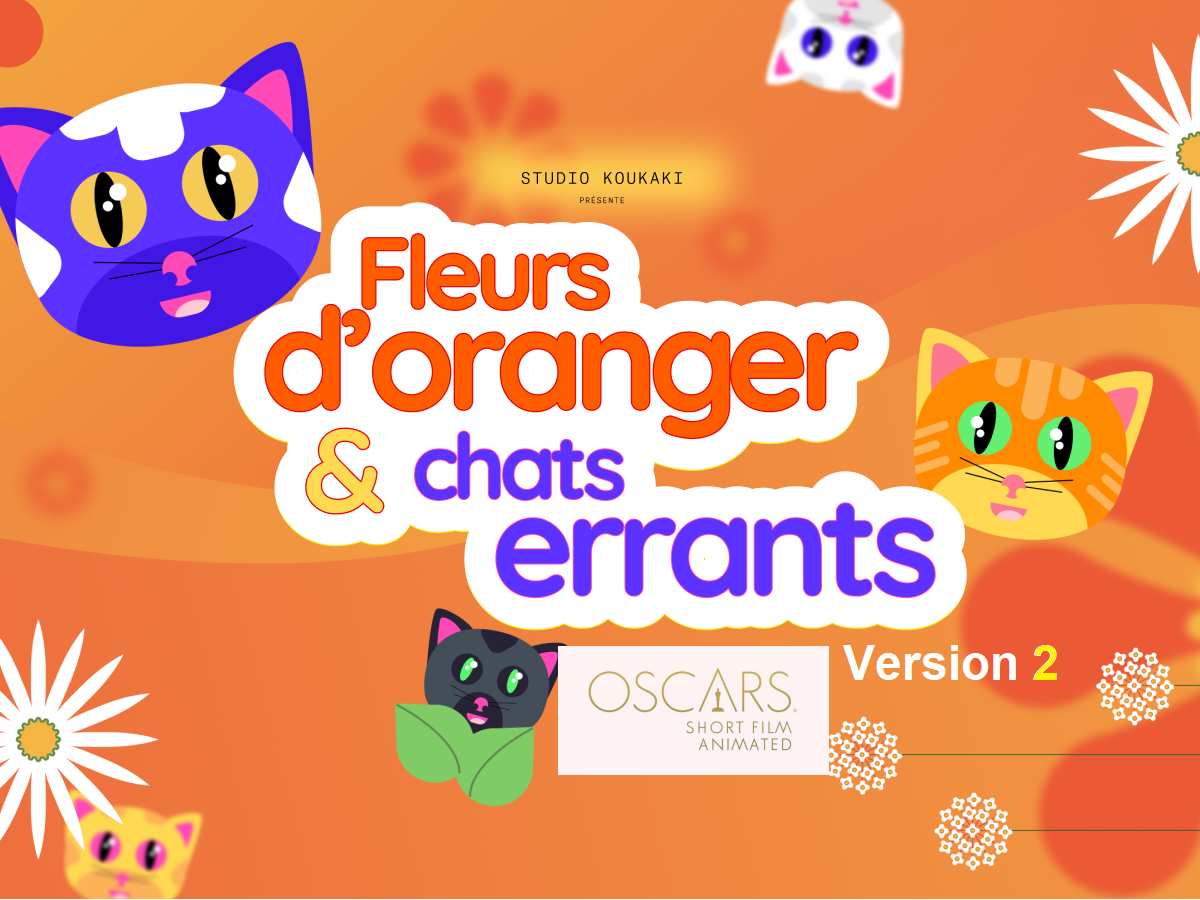
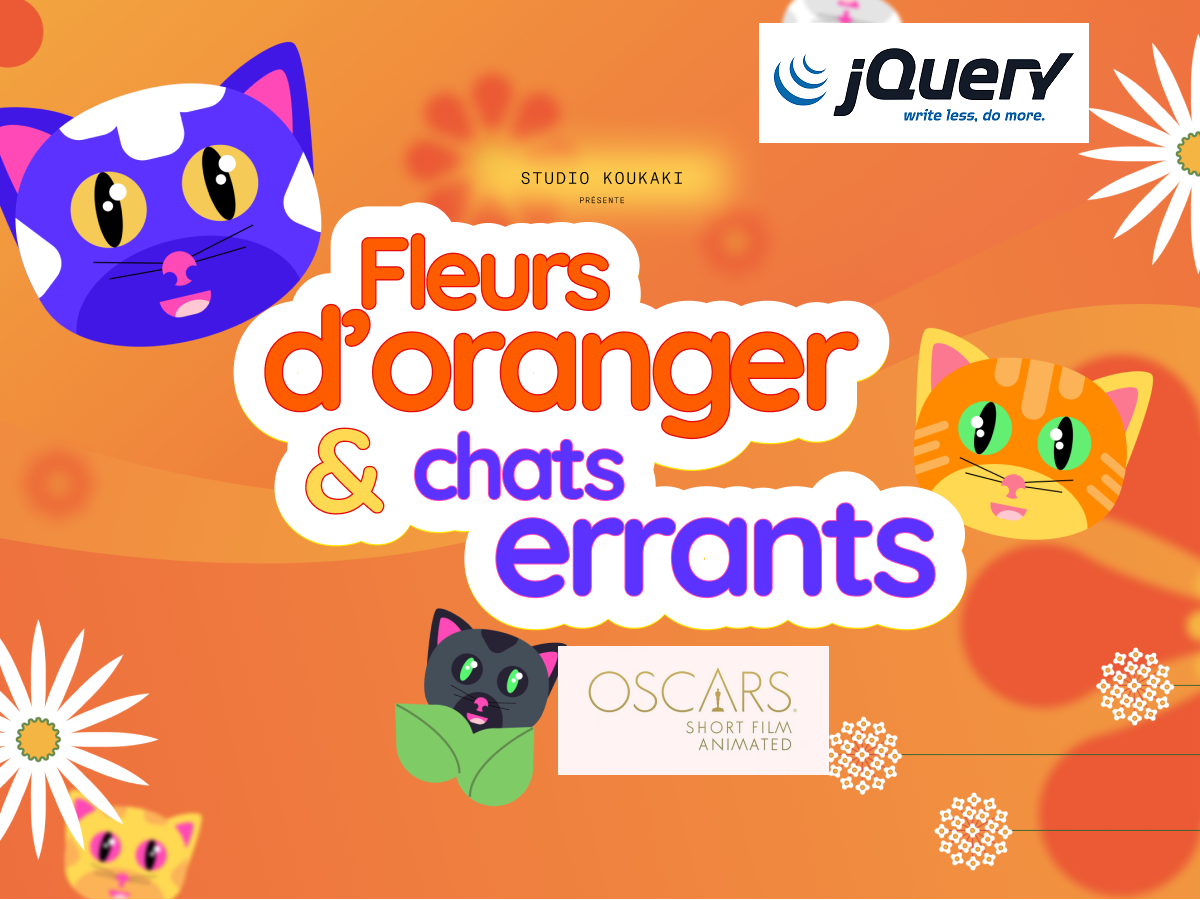
Création d'une version avec jQuery

Changed region(s): [[0.6167, 0.0, 0.925, 0.1867], [0.6783, 0.7156, 0.8942, 0.7778]]

diff --git a/wp-content/themes/foce-child/assets/js/custom-scripts.js b/wp-content/themes/foce-child/assets/js/custom-scripts.js
@@ -6,41 +6,32 @@
 
 // console.log("Démarrage du script !");
 
-// Différer le lancement du script => ne se lance qu'une fois que tout le HTML a été chargé
-if (document.readyState === "complete") {
-  monScript();
-} else {
-  document.addEventListener("DOMContentLoaded", function () {
-    monScript();
-  });
-}
-
-function monScript() {
+$(document).ready(function () {
   // console.log("HTML prêt !");
 
   let posX = 0;
   let mouveCloud = false;
 
   const root = document.documentElement;
-  const burger = document.querySelector(".modal__burger");
-  const content = document.querySelector(".modal__content");
-  const modalTriggers = document.querySelectorAll(".modal-trigger");
   const place = document.querySelector("#place");
-  const littleCloud = document.querySelector(".place--little_cloud");
-  const bigCloud = document.querySelector(".place--big_cloud");
 
-  // Gestion de la fermeture et de l'ouverture de la modale
-  modalTriggers.forEach((trigger) => {
-    trigger.addEventListener("click", () => {
-      toggleModal();
-    });
+  // Gestion de la fermeture et de l'ouverture de la modale avec jQuery
+  $(".modal-open").click(function () {
+    console.log("modal-trigger cliqué");
+    $(".modal__content").animate({ height: "toggle", opacity: "toggle" }, 1000);
+    $(".modal__content").toggleClass("open");
+    $(".modal__burger").toggleClass("close");
   });
-
-  function toggleModal() {
-    burger.classList.toggle("close");
-    content.classList.toggle("hidden");
-    content.classList.toggle("visible");
-  }
+  $("a").click(function () {
+    if ($(".modal__content").hasClass("open")) {
+      $(".modal__content").animate(
+        { height: "toggle", opacity: "toggle" },
+        1000
+      );
+      $(".modal__content").removeClass("open");
+      $(".modal__burger").removeClass("close");
+    }
+  });
 
   // Gestion du déclenchement des évenements quand ils apparaissent
   const handleIntersect = (entries) => {
@@ -111,8 +102,8 @@ function monScript() {
   observer.observe(document.querySelector(".studio__title"));
   observer.observe(document.querySelector(".characters__title"));
   observer.observe(document.querySelector(".place__title"));
-  observer.observe(bigCloud);
-  observer.observe(littleCloud);
+  observer.observe(document.querySelector(".place--big_cloud"));
+  observer.observe(document.querySelector(".place--little_cloud"));
 
   // Contrôle si on scroll sur la fenêtre
   window.addEventListener("scroll", () => {
@@ -138,4 +129,4 @@ function monScript() {
       posX = 0;
     }
   });
-}
+});

diff --git a/wp-content/themes/foce-child/assets/css/theme.css b/wp-content/themes/foce-child/assets/css/theme.css
@@ -76,7 +76,6 @@
   justify-content: center;
   text-align: center;
   overflow: hidden;
-  z-index: 99;
 }
 
 .modal h2,
@@ -90,6 +89,7 @@
   height: 90vh;
   background: #FFF5E9;
   font-size: 3em;
+  display: none;
 }
 
 .modal__content--logo {
@@ -116,13 +116,6 @@
   -moz-filter: drop-shadow(0px 0px 5px #ff5c00);
 }
 
-.modal__content.hidden {      
-  visibility: hidden;  
-  opacity: 0;
-  height: 0;
-  /* animation: opacity 2s ease-out; */
-}
-
 .modal__content--footer {
   position: absolute;
   left: 50%;
@@ -130,11 +123,6 @@
   bottom: 40px;
 }
 
-.modal__content.visible {
-  visibility: visible;  
-  opacity: 1;
-  animation: move-down 1s ease-out;
-}
 
 /*  **********************************  */
 /*    Media query : max-width: 700px    */

diff --git a/wp-content/themes/foce-child/header.php b/wp-content/themes/foce-child/header.php
@@ -17,6 +17,9 @@
 	<meta name="viewport" content="width=device-width, initial-scale=1">
 	<link rel="profile" href="https://gmpg.org/xfn/11">
 
+    <script src="https://code.jquery.com/jquery-3.6.4.min.js"
+        integrity="sha256-oP6HI9z1XaZNBrJURtCoUT5SUnxFr8s3BzRl+cbzUq8=" crossorigin="anonymous"></script>
+
 	<?php wp_head(); ?>
 </head>
 
@@ -26,31 +29,33 @@
 	<a class="skip-link screen-reader-text" href="#primary"><?php esc_html_e( 'Skip to content', 'foce' ); ?></a>
 
 	<header id="masthead" class="site-header">
-    <nav id="site-navigation" class="main-navigation">
-        <ul>
-            <li class="site-title modal-trigger"><a href="#" rel="home">Fleurs d'oranger & chats errants</a></li>
-        </ul>
+        <nav id="site-navigation" class="main-navigation">
+            <ul>
+                <li class="site-title "><a href="#" rel="home">Fleurs d'oranger & chats errants</a></li>
+            </ul>
 
-        <div id="modal" class="modal">
-            <button class="modal__burger modal-trigger" aria-controls="primary-menu" aria-expanded="false">
-                <span class="line"></span>
-                <span class="line"></span>
-                <span class="line"></span>
-            </button>
-            <div class="modal__content hidden">
-                <img class="modal__content--logo" src="<?php echo get_theme_file_uri() . '/assets/images/logo.png'; ?>" alt="">
-                <ul>
-                    <li class="modal__content--story modal-trigger flower cat"><a href="#story">Histoire</a></li>
-                    <li class="modal__content--characters modal-trigger flower cat"><a href="#characters">Personnages</a></li>
-                    <li class="modal__content--place flower modal-trigger cat"><a href="#place">Lieu</a></li>
-                    <li class="modal__content--studio flower modal-trigger cat"><a href="#studio">Studio Koukaki</a></li>
-                </ul>
+            <div id="modal" class="modal" aria-controls="primary-menu" aria-expanded="false">
+                <button class="modal__burger modal-open">
+                    <span class="line"></span>
+                    <span class="line"></span>
+                    <span class="line"></span>
+                </button>
+                <div class="modal__content">
+                    <img class="modal__content--logo" src="<?php echo get_theme_file_uri() . '/assets/images/logo.png'; ?>" alt="">
+                    <ul>
+                        <li class="modal__content--story flower cat"><a href="#story">Histoire</a></li>
+                        <li class="modal__content--characters flower cat"><a href="#characters">Personnages</a></li>
+                        <li class="modal__content--place flower cat"><a href="#place">Lieu</a></li>
+                        <li class="modal__content--studio flower cat"><a href="#studio">Studio Koukaki</a>
+                        </li>
+                    </ul>
 
-                <div class="modal__content--footer modal-trigger flower cat">
-                    <a href="#">STUDIO KOUKAKI</a></li>
+                    <div class="modal__content--footer modal-trigger flower cat">
+                        <a href="#">STUDIO KOUKAKI</a></li>
+                    </div>
+
                 </div>
-
             </div>
-        </div>
+
         </nav><!-- #site-navigation -->
 	</header><!-- #masthead -->

diff --git a/wp-content/themes/foce-child/functions.php b/wp-content/themes/foce-child/functions.php
@@ -7,9 +7,8 @@ function theme_enqueue_styles() {
     wp_enqueue_style( 'theme-style', get_stylesheet_directory_uri() . '/assets/css/theme.css' );    
     wp_enqueue_style( 'swiper-style', get_stylesheet_directory_uri() . '/assets/css/swiper-bundle.min.css' );
 
-    // Enqueue Custom Scripts
-    // wp_enqueue_script( 'order-custom-scripts', get_theme_file_uri( '/assets/js/custom-scripts.js' ), array(), '1.0.0', true );
-    wp_enqueue_script( 'order-custom-scripts', get_theme_file_uri( '/assets/js/custom-scripts.js' ), array('jquery'), '1.0.0', true );
+    // Enqueue Custom Scripts    
+    wp_enqueue_script( 'order-custom-scripts', get_theme_file_uri( '/assets/js/custom-scripts.js' ), array(), '1.0.1', true );
     // wp_enqueue_script( 'swiper-element-bundle.min', 'https://cdn.jsdelivr.net/npm/swiper@9/swiper-element-bundle.min.js', array(), '9.2.0', true );
     wp_enqueue_script( 'swiper-element-bundle.min', get_theme_file_uri( '/assets/js/swiper-element-bundle.min.js'), array(), '9.2.0', true );
     // wp_enqueue_script( 'initialize-swiper', get_theme_file_uri( '/assets/js/initialize-swiper.js'), array(), '1.0.0', true );
